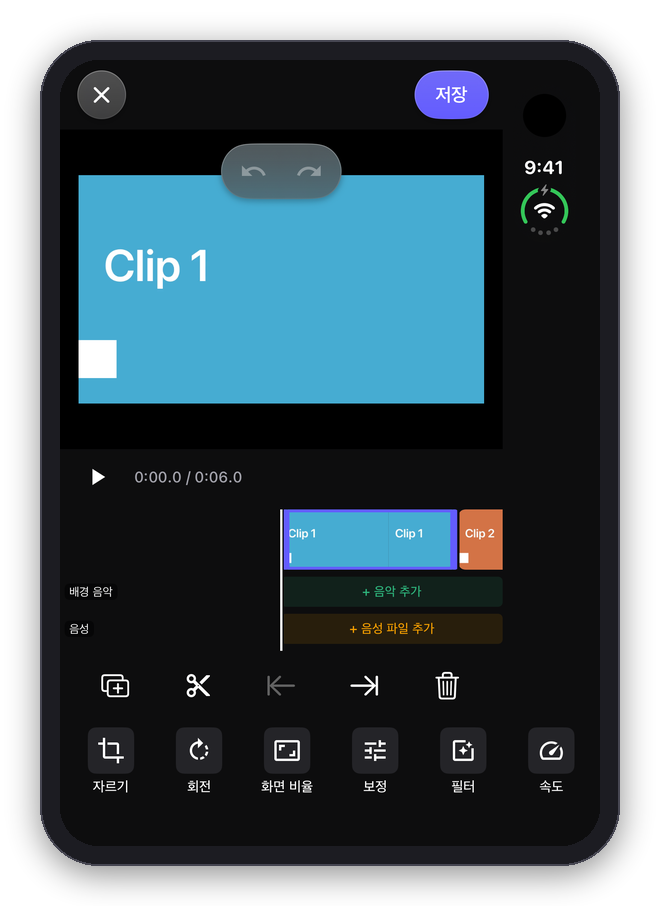
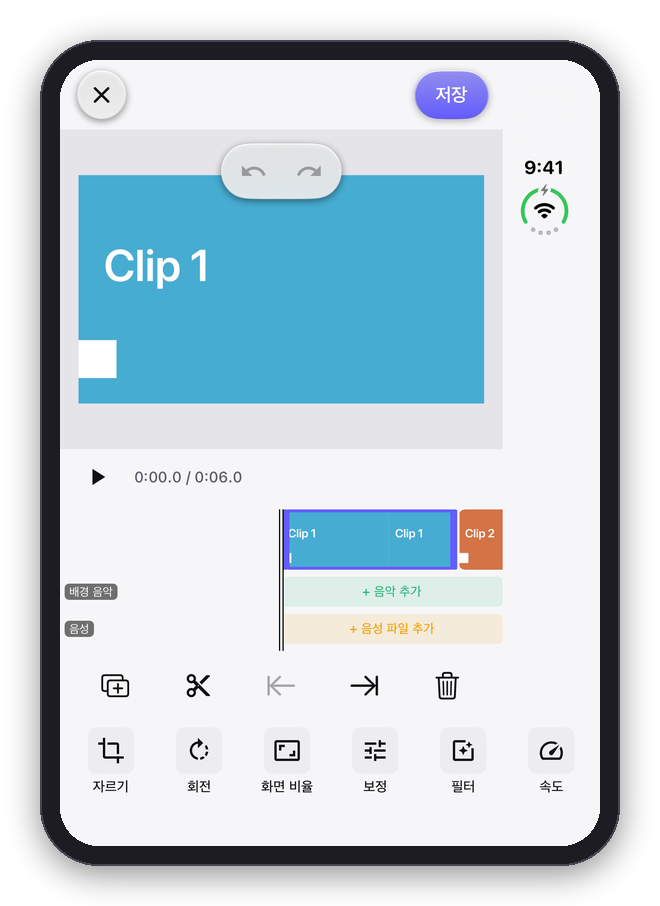
docs: README iOS 화면 이미지를 다크·라이트를 섞어 다시 찍음

diff --git a/README.md b/README.md
@@ -70,6 +70,8 @@
 
 ### iOS
 
+고르기·사진 편집은 다크 테마, 영상·움직이는 이미지·음성은 라이트 테마입니다.
+
 <table>
   <tr>
     <td align="center" width="20%"><img src="docs/images/ios-chooser.png" width="160" alt="iOS 고르기"><br><b>고르기</b></td>
@@ -80,7 +82,7 @@
   </tr>
 </table>
 
-상태 바가 옆에 있는 듀오에서는 이렇게 보입니다.
+상태 바가 옆에 있는 듀오의 덮개 화면에서는 이렇게 보입니다(사진 편집은 다크, 나머지는 라이트).
 
 <table>
   <tr>
